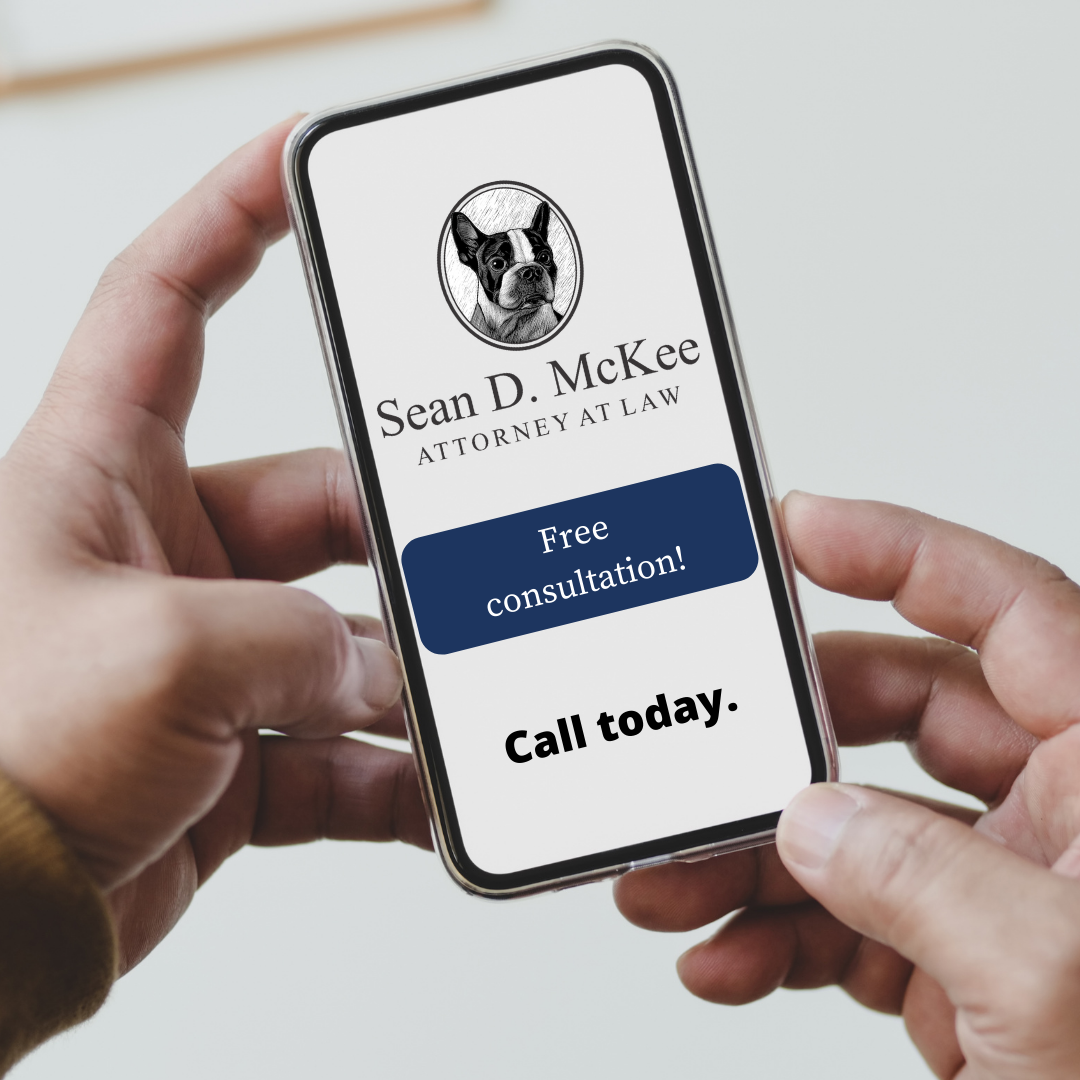
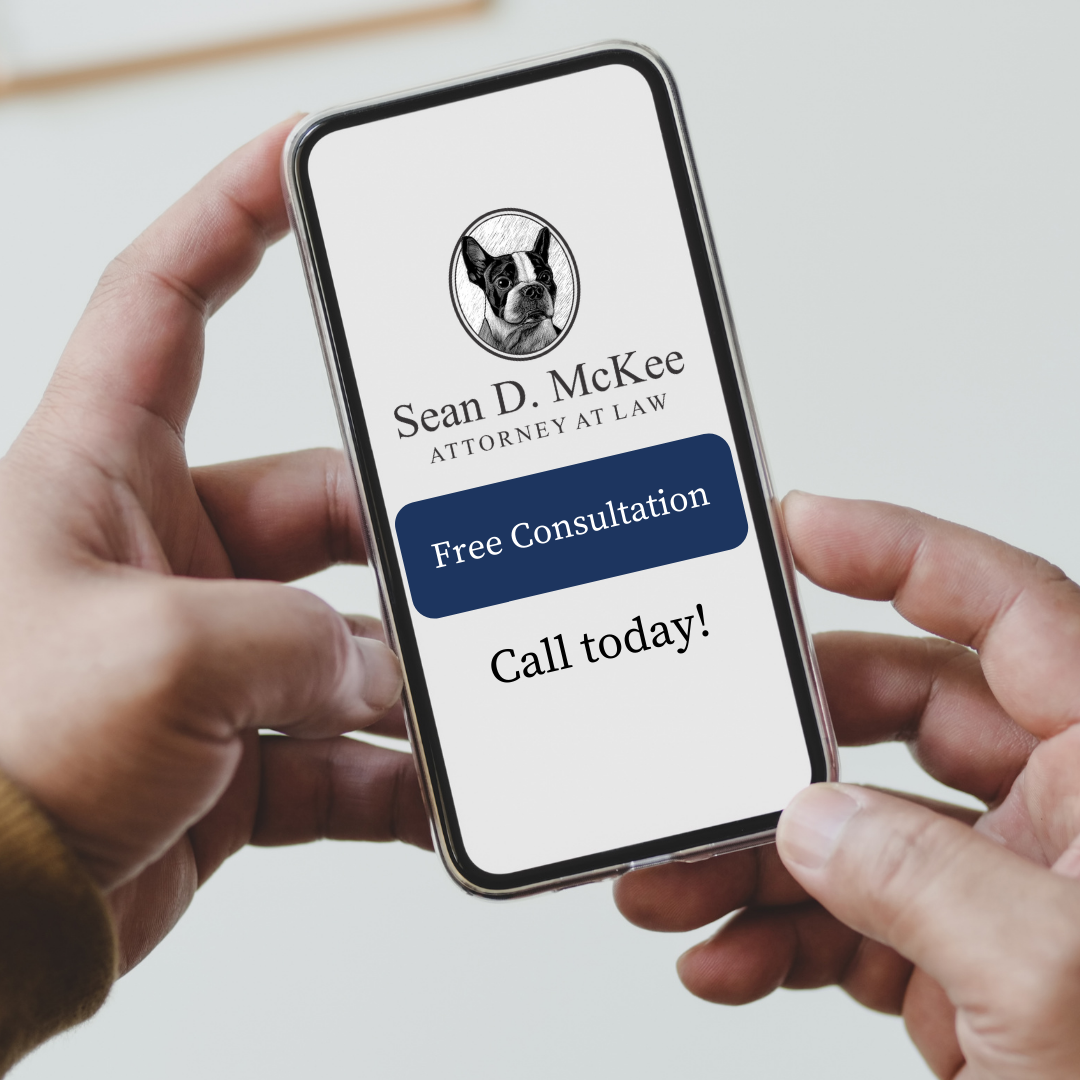
Fixed anchor link placement, added correct email, replaced contact image

Changed region(s): [[0.3361, 0.1528, 0.7028, 0.6417], [0.4583, 0.6417, 0.6722, 0.7028]]

diff --git a/src/App.js b/src/App.js
@@ -27,7 +27,11 @@ class App extends React.Component {
         title: null,
         image: topImage,
         content1: 
-          <button className='linkButton'>Free Consulation (Email)</button>
+          <button className='linkButton'>
+            <a className='buttonLink' href="mailto:admin@seanmckeelaw.com">
+              Free Consulation
+            </a>
+          </button>
           , 
         content2: 
         <h2 style={{margin: "20px"}}>Affordable, dependable legal services.</h2>
@@ -70,7 +74,10 @@ class App extends React.Component {
             <p>With over a decade of experience, we offer affordable and caring legal representation for criminal and family law matters.</p>
           </div>,
         content2:
-          null
+        <div>
+        <h2>A Focus on Results</h2>
+        <p>Sean McKee is a criminal defense attorney with over 10 years experience in handling all types of felony and misdemeanor charges with a focus on DUI defense.  From plea negotiation to suppression motions and all the way to jury trials there is nothing this office hasn't handled.  We know how confusing this system is and how to help guide you through this difficult process with an experienced lawyer at your side.  We handle cases throughout the State with our home right here in Bellingham.</p>
+      </div>
         },
         { id: "contact",
         title: "Contact",
@@ -82,9 +89,9 @@ class App extends React.Component {
             <h3>Fax:</h3>
             <p>(360) 734-1850</p>
             <h3>Email:</h3>
-            <a href="mailto:mckeelawfirm@gmail.com">mckeelawfirm@gmail.com</a>
+            <a href="mailto:admin@seanmckeelaw.com" style={{margin: "0px"}}>admin@seanmckeelaw.com</a>
             <p></p>
-            <h3><a href="https://www.facebook.com/mckeelawfirm">Find us on Facebook</a></h3>
+            <h3><a href="https://www.facebook.com/mckeelawfirm" style={{margin: "0px"}}>Find us on Facebook</a></h3>
           </div>
         },
     

diff --git a/src/index.css b/src/index.css
@@ -83,7 +83,7 @@ a:hover{
   text-decoration: none;
   background: var(--dark-color);
   border-radius: 10px;
-  padding: 10px 20px;
+  padding: unset;
   color: var(--light-color);
   font-weight: bold;
   cursor: pointer;
@@ -113,4 +113,17 @@ a:hover{
 
 .linkButton:active {
   transform: scale(0.99);
+}
+
+.buttonLink {
+  display: inline-block;
+  /* width: 100%; */
+  height: 100%;
+  padding: 10px;
+  margin: unset;
+  width: 300px;
+}
+
+.buttonLink:hover{
+  color: var(--dark-color)
 }

diff --git a/src/components/landscape/SectionLandscapeTitleLeft/SectionLandscapeTitleLeft.css b/src/components/landscape/SectionLandscapeTitleLeft/SectionLandscapeTitleLeft.css
@@ -23,7 +23,7 @@
 .sectionLandscapeTitleLeft > .sectionHeadingDiv > .anchorLinkDiv {
     position: absolute;
     height: 90px;
-    top: -90px;
+    top: -85px;
 }
 
 .sectionLandscapeTitleLeft > .content {
